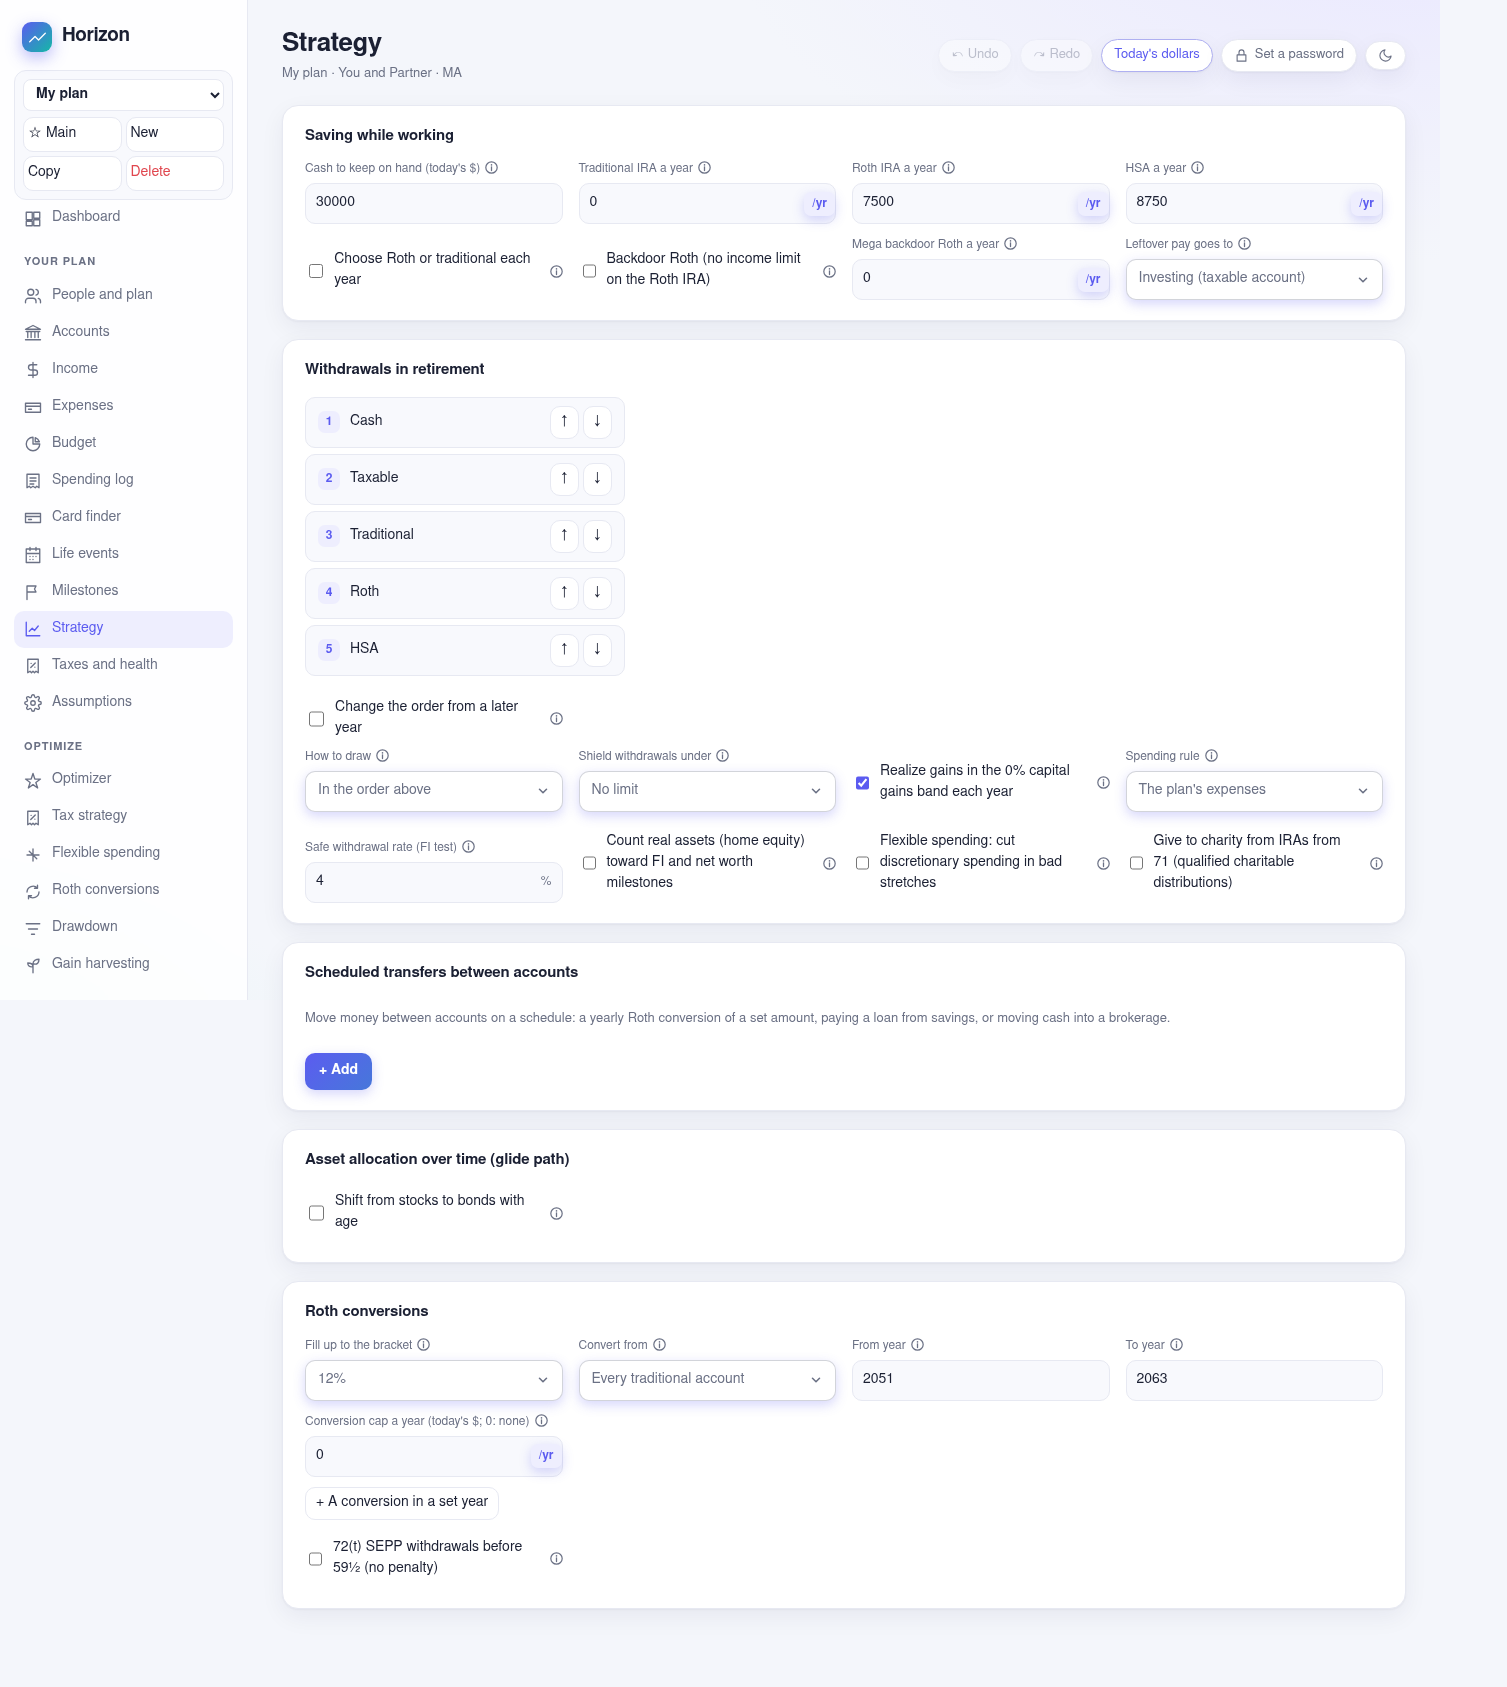
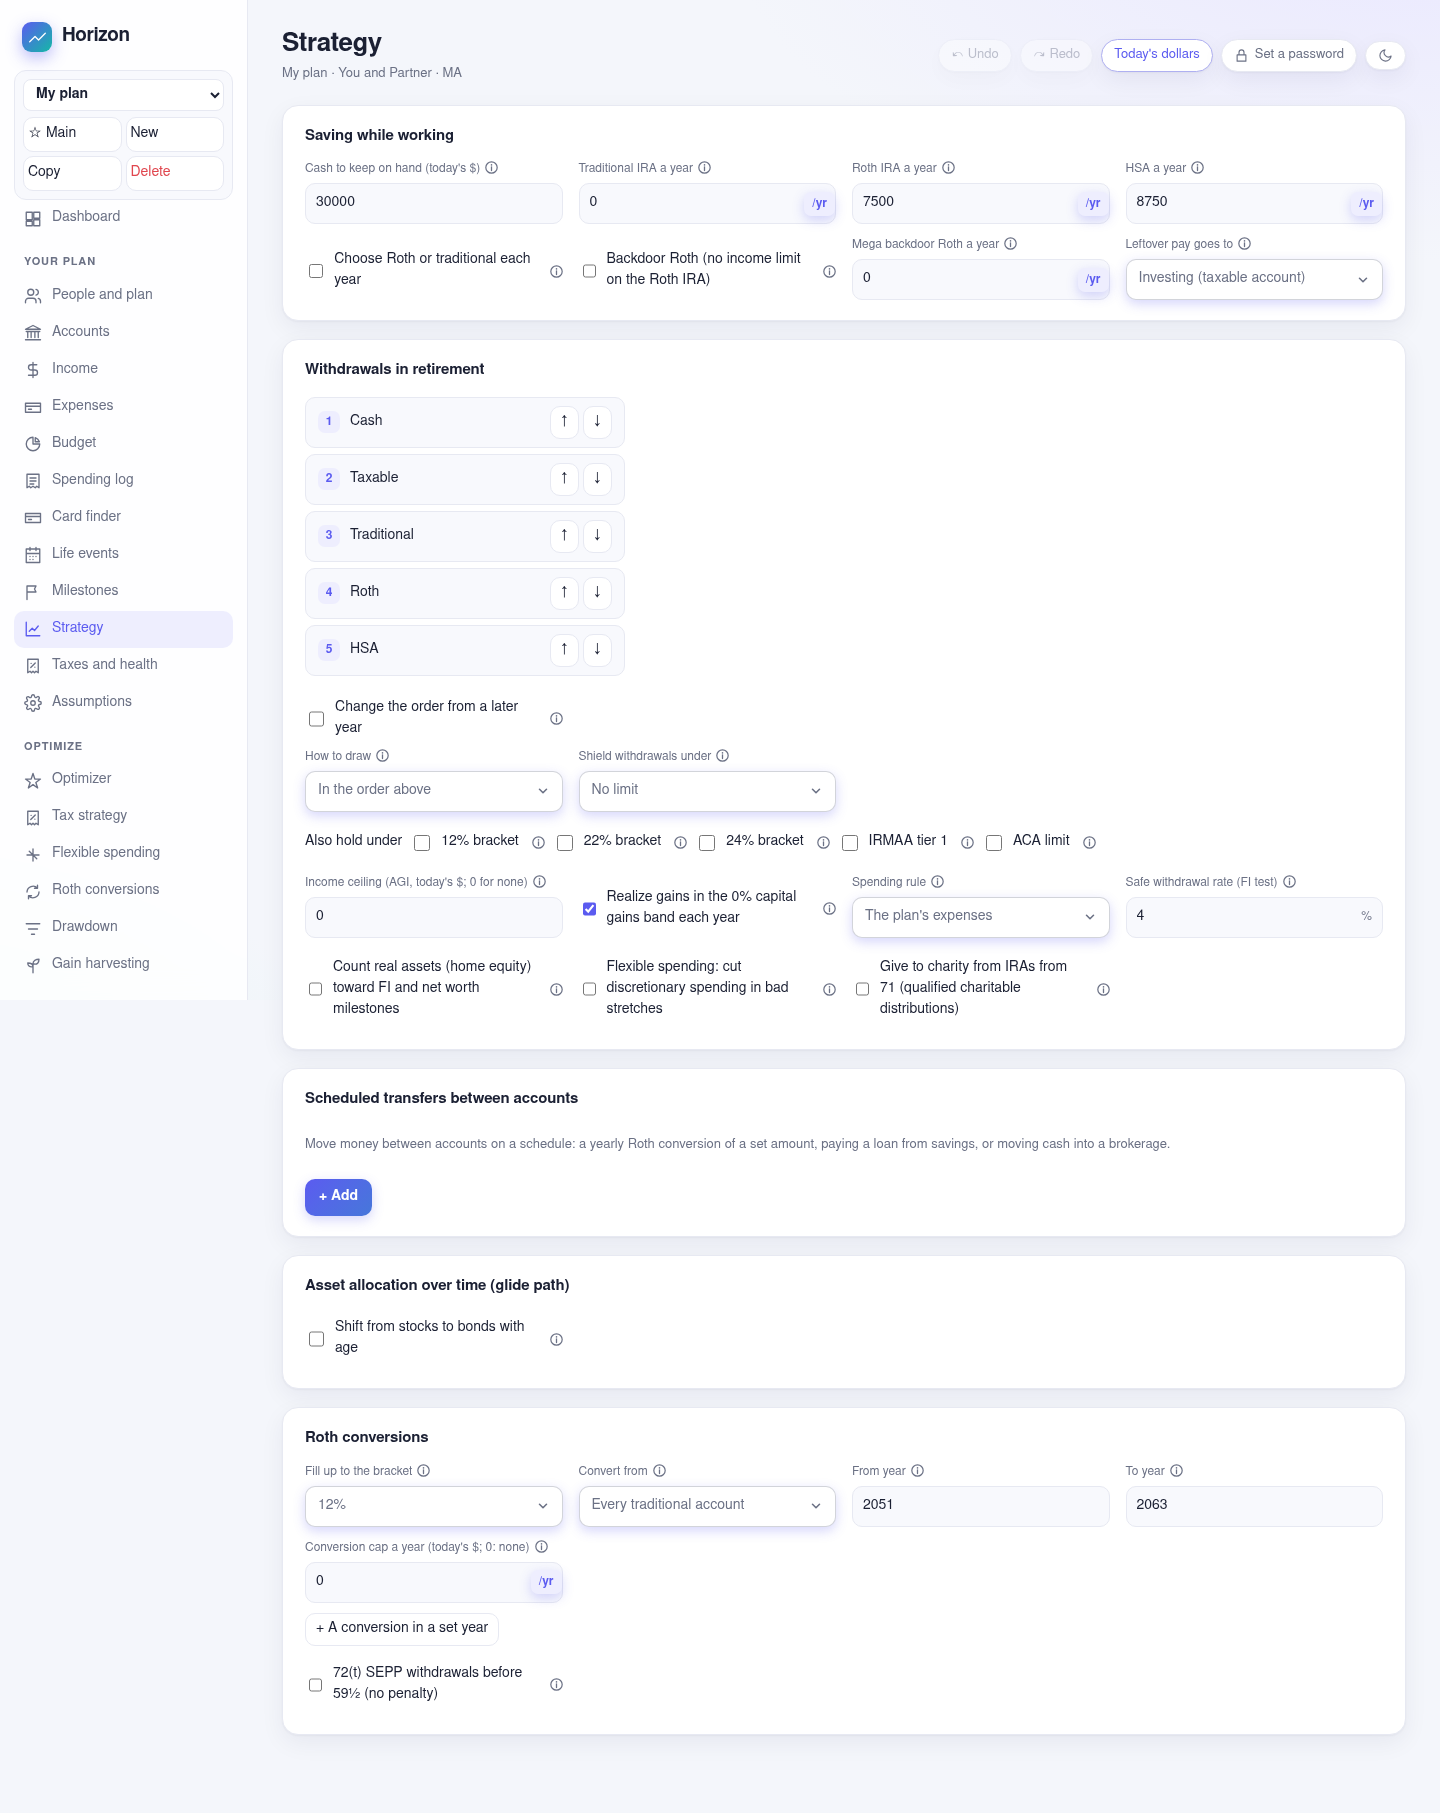
Tax strategy with several targets at once (brackets, IRMAA, ACA, an income ceiling): the tightest caps withdrawals
Claude-Session: https://claude.ai/code/session_01HeJ1UAxjk6MGEszesTwGbu

diff --git a/10_app/code/src/pages/Editors.tsx b/10_app/code/src/pages/Editors.tsx
@@ -885,8 +885,15 @@ export function StrategyPage({ focus }: { focus?: StrategyFocus } = {}) {
             onChange={(v) => update((p) => { p.strategy.withdrawalMethod = v; })} />}
           {show('tax', 'drawdown') && <Select label="Shield withdrawals under" value={s.shield ?? 'none'} options={[['none', 'No limit'], ['bracket12', 'The 12% bracket'], ['bracket22', 'The 22% bracket'], ['bracket24', 'The 24% bracket'], ['irmaa', 'The first IRMAA tier'], ['aca', 'The ACA credit limit (400% FPL)']]}
             onChange={(v) => update((p) => { p.strategy.shield = v; })} />}
-          {show('tax', 'drawdown') && s.shield && s.shield !== 'none' && <Num label="Shield from year (0 for the start)" value={s.shieldFrom ?? 0} onChange={(v) => update((p) => { p.strategy.shieldFrom = v || undefined; })} />}
-          {show('tax', 'drawdown') && s.shield && s.shield !== 'none' && <Num label="Shield until year (0 for the end)" value={s.shieldTo ?? 0} onChange={(v) => update((p) => { p.strategy.shieldTo = v || undefined; })} />}
+          {show('tax', 'drawdown') && <div className="span row">
+            <span>Also hold under</span>
+            {([['bracket12', '12% bracket'], ['bracket22', '22% bracket'], ['bracket24', '24% bracket'], ['irmaa', 'IRMAA tier 1'], ['aca', 'ACA limit']] as const).map(([k, l]) => (
+              <Check key={k} label={l} value={!!s.shields?.includes(k)} onChange={(v) => update((p) => { const cur = new Set(p.strategy.shields ?? []); if (v) cur.add(k); else cur.delete(k); p.strategy.shields = cur.size ? [...cur] : undefined; })} />
+            ))}
+          </div>}
+          {show('tax', 'drawdown') && <Num label="Income ceiling (AGI, today's $; 0 for none)" value={s.incomeCeiling ?? 0} onChange={(v) => update((p) => { p.strategy.incomeCeiling = v > 0 ? v : undefined; })} />}
+          {show('tax', 'drawdown') && ((s.shield && s.shield !== 'none') || !!s.shields?.length || !!s.incomeCeiling) && <Num label="Shield from year (0 for the start)" value={s.shieldFrom ?? 0} onChange={(v) => update((p) => { p.strategy.shieldFrom = v || undefined; })} />}
+          {show('tax', 'drawdown') && ((s.shield && s.shield !== 'none') || !!s.shields?.length || !!s.incomeCeiling) && <Num label="Shield until year (0 for the end)" value={s.shieldTo ?? 0} onChange={(v) => update((p) => { p.strategy.shieldTo = v || undefined; })} />}
           {show('tax', 'drawdown') && s.shield === 'aca' && <Num label="Keep income under this multiple of the poverty line" value={s.fplMultiple ?? 4} onChange={(v) => update((p) => { p.strategy.fplMultiple = v > 0 ? v : undefined; })} />}
           {show('harvest', 'tax') && <Check label="Realize gains in the 0% capital gains band each year" value={!!s.harvestZeroGains} onChange={(v) => update((p) => { p.strategy.harvestZeroGains = v; })} />}
           {show('drawdown', 'flex') && <Select label="Spending rule" value={s.spending} options={[['expenses', 'The plan\'s expenses'], ['fixedPercent', 'Fixed share of the portfolio'], ['guardrails', 'Guardrails (±10% when the rate drifts 20%)'], ['vpw', 'Variable percentage (spend down by the plan end)'], ['textbook', 'Textbook rule (a share of the first year, then with inflation)'], ['cape', 'CAPE-based (more when stocks are cheap)']]}

diff --git a/10_app/code/src/engine/simulate.ts b/10_app/code/src/engine/simulate.ts
@@ -967,13 +967,16 @@ function simulateOnce(plan: Plan, path: ReturnPath, rothByYear?: Record<number, 
     /** Traditional money which still fits under the shield's limit this year, given what was drawn so far. */
     function shieldRoom(drawnNow: number): number {
       const t = computeTaxNow(fromTrad + drawnNow, gains, early);
-      const sh = s.shield!;
-      if (sh.startsWith('bracket')) return Math.max(0, bracketTop(Number(sh.slice(7)) / 100, status, y, ri) - t.ordinaryTaxable);
-      if (sh === 'irmaa') {
-        const tiers = rulesTiers(status);
-        return Math.max(0, tiers * ri - t.agi);
+      // every target at once (ProjectionLab's tax strategy): the room is the tightest of them
+      const targets = [...new Set([s.shield, ...(s.shields ?? [])].filter((x): x is NonNullable<typeof x> => !!x && x !== 'none'))];
+      let room = Infinity;
+      for (const sh of targets) {
+        if (sh.startsWith('bracket')) room = Math.min(room, bracketTop(Number(sh.slice(7)) / 100, status, y, ri) - t.ordinaryTaxable);
+        else if (sh === 'irmaa') room = Math.min(room, rulesTiers(status) * ri - t.agi);
+        else if (sh === 'aca') room = Math.min(room, acaLimit(alive.length, s.fplMultiple ?? 4) * ri - t.agi);
       }
-      return Math.max(0, acaLimit(alive.length, s.fplMultiple ?? 4) * ri - t.agi);
+      if (s.incomeCeiling) room = Math.min(room, s.incomeCeiling * ri - t.agi);
+      return Math.max(0, room);
     }
 
     function withdraw(need: number) {
@@ -1013,7 +1016,7 @@ function simulateOnce(plan: Plan, path: ReturnPath, rothByYear?: Record<number, 
           if (left <= 0) break;
           let avail = state.balance[x.id];
           if (step === 'cash') avail = Math.max(0, avail);
-          if (step === 'traditional' && s.shield && s.shield !== 'none' && y >= (s.shieldFrom ?? -Infinity) && y <= (s.shieldTo ?? Infinity)) avail = Math.min(avail, shieldRoom(traditional));
+          if (step === 'traditional' && ((s.shield && s.shield !== 'none') || s.shields?.length || s.incomeCeiling) && y >= (s.shieldFrom ?? -Infinity) && y <= (s.shieldTo ?? Infinity)) avail = Math.min(avail, shieldRoom(traditional));
           const take = Math.min(left, avail);
           if (take <= 0) continue;
           state.balance[x.id] -= take;

diff --git a/10_app/code/src/help.ts b/10_app/code/src/help.ts
@@ -343,4 +343,11 @@ export const HELP: Record<string, string> = {
   "Effective rate's income includes non-taxable sale proceeds": "Count the untaxed part of what an asset sale brings in as income in the effective tax rate.",
   "No private hospital cover (Medicare levy surcharge)": "Without private hospital cover, incomes over $105,000 single or $210,000 for a family pay an extra 1% to 1.5% Medicare levy surcharge.",
   "From a substantial shareholding (box 2)": "Dividends and gains from a company you own 5% or more of, taxed in box 2 at 24.5% to \u20ac68,843 and 31% above.",
+  "Also hold under": "More limits to respect at the same time; each year the tightest one caps traditional withdrawals.",
+  "Income ceiling (AGI, today's $; 0 for none)": "A cap on adjusted gross income, in today's dollars, held alongside the other targets.",
+  "12% bracket": "Hold traditional withdrawals under this limit too.",
+  "22% bracket": "Hold traditional withdrawals under this limit too.",
+  "24% bracket": "Hold traditional withdrawals under this limit too.",
+  "IRMAA tier 1": "Hold traditional withdrawals under this limit too.",
+  "ACA limit": "Hold traditional withdrawals under this limit too.",
 };

diff --git a/10_app/code/src/engine/__tests__/recur.test.ts b/10_app/code/src/engine/__tests__/recur.test.ts
@@ -105,3 +105,14 @@ describe('historical rates', () => {
     expect(p.stocks[0]).toBeLessThan(-0.3);
   });
 });
+
+describe('several shielding targets', () => {
+  it('a tighter extra target lowers traditional withdrawals no further than the tightest', async () => {
+    const { withoutStrategy } = await import('../impact');
+    const plan = examplePlan();
+    plan.strategy.shield = 'bracket24'; plan.strategy.shields = ['bracket12']; plan.strategy.incomeCeiling = 50000;
+    const off = withoutStrategy(plan, 'drawdown').strategy;
+    expect([off.shield, off.shields, off.incomeCeiling]).toEqual(['none', undefined, undefined]);
+    expect(simulate(plan).years.length).toBeGreaterThan(0);
+  });
+});

diff --git a/10_app/code/src/engine/impact.ts b/10_app/code/src/engine/impact.ts
@@ -10,7 +10,7 @@ export type ImpactFocus = 'tax' | 'flex' | 'roth' | 'drawdown' | 'harvest';
 export function withoutStrategy(plan: Plan, focus: ImpactFocus): Plan {
   const p = structuredClone(plan), s = p.strategy;
   const offRoth = () => { s.autoRoth = undefined; s.rothConversionBracket = 0; s.manualConversions = []; };
-  const offShield = () => { s.shield = 'none'; };
+  const offShield = () => { s.shield = 'none'; s.shields = undefined; s.incomeCeiling = undefined; };
   const offHarvest = () => { s.harvestZeroGains = false; };
   if (focus === 'roth') offRoth();
   if (focus === 'drawdown') offShield();

diff --git a/10_app/code/src/engine/types.ts b/10_app/code/src/engine/types.ts
@@ -339,6 +339,9 @@ export interface Strategy {
   /** Shield 'aca': the multiple of the poverty line to keep income under (4 where unset; 1.38 for Medicaid, 2.5 for
    * cost-sharing reductions). */
   fplMultiple?: number;
+  /** More shielding targets held together with shield (the tightest applies), and a ceiling on AGI in today's dollars. */
+  shields?: ('bracket12' | 'bracket22' | 'bracket24' | 'irmaa' | 'aca')[];
+  incomeCeiling?: number;
   /** Withdrawal shielding only in these years (the whole plan where unset). */
   shieldFrom?: number;
   shieldTo?: number;

diff --git a/todo.md b/todo.md
@@ -48,7 +48,6 @@ Asked by Bryce on 2026-11-23, in the order to build.
 - Quebec's other credits (living alone, age, retirement income); Ontario's $575 reduction for each child.
 - Spain: every region's own income tax scale and wealth tax allowance in place of the reference scale.
 - UK: the April 2027 rise in savings rates (2 points).
-- Tax strategy: several targets at once (bracket, IRMAA, ACA, an income ceiling) with constraints, in place of one shield.
 
 ## From the live ProjectionLab app (signed in 2026-11-23; captures in 99_overall/output/pl_live/)
 
